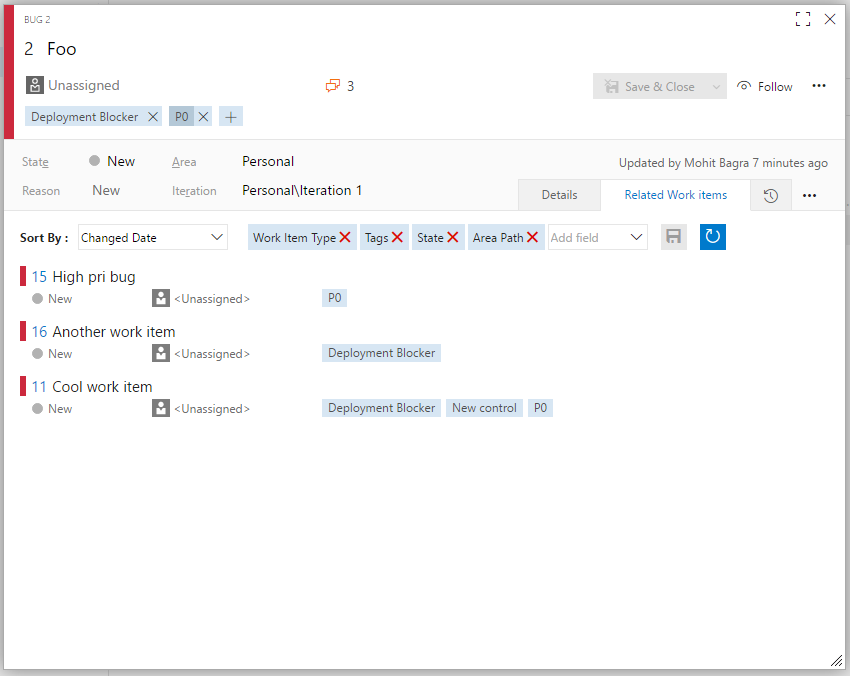
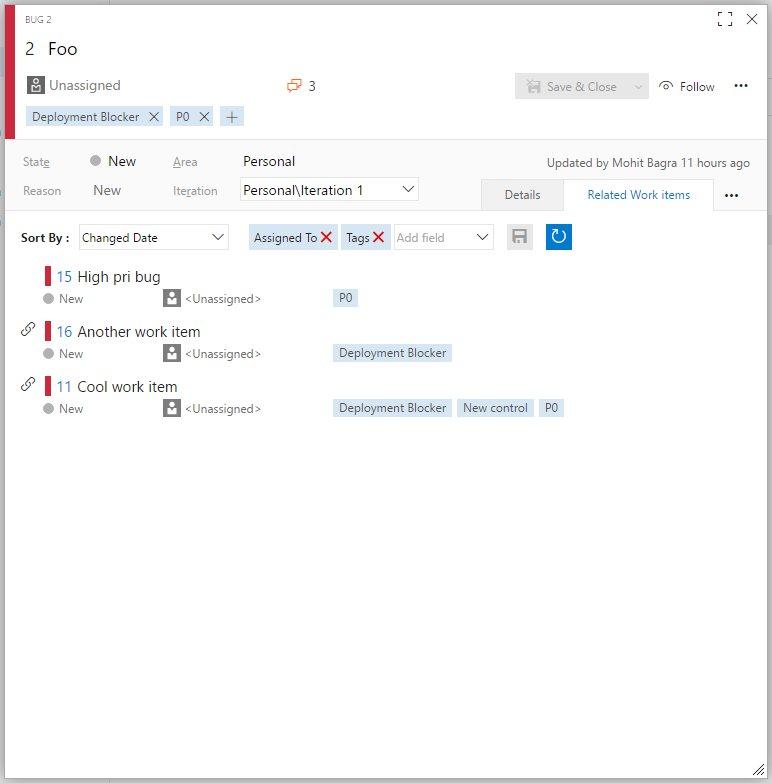
add screenshots and update readme file

diff --git a/README.md b/README.md
@@ -10,3 +10,7 @@ This extension adds a page to work item form which shows a list of related work 
 
 In the screenshot above, the extension loads work items which share same field values as "Work Item type", "State", "Area Path" and "Tags", sorted by ChangedDate field. It does exactly what a VSTS query does, but in a much simpler and faster way.
 Users can choose to change the look up fields and "order by" field and save these settings for the current work item type. The next time they open up the form, the extension will read user's settings and retrieve the work item list based on them.
+
+![Group](img/AddLinkExample.png)
+
+Users can also add a link to any of the workitems in the list directly from the extension, as shown in the screenshot above.
